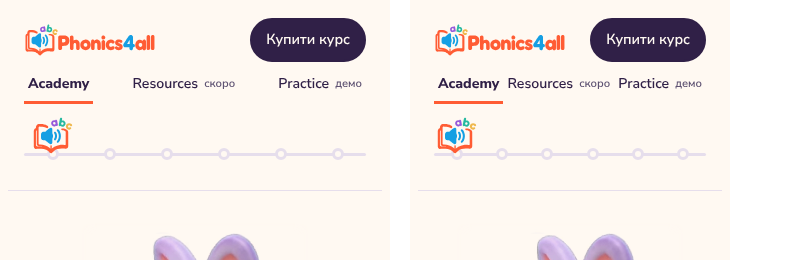
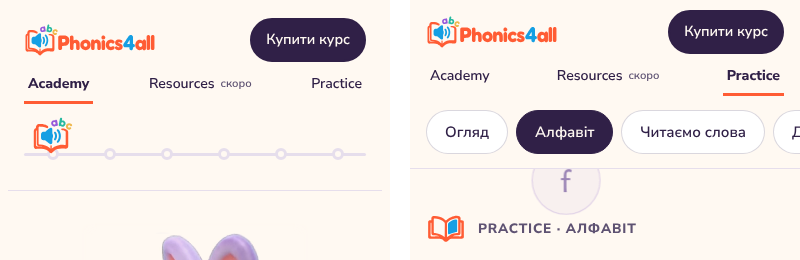
Practice: show header menu on phones too
Same second-row menu as the course landing instead of hiding it
below 1000px. Rebuilt landing/practice.

Claude-Session: https://claude.ai/code/session_016bVaig1H6c4J4XuGwyBkQ1

diff --git a/landing/practice/assets/index-BVn9vgB3.css b/landing/practice/assets/index-BVn9vgB3.css
@@ -1,0 +1,1 @@
+@font-face{font-family:Nunito Sans;src:url(../fonts/NunitoSans-Regular.woff2) format("woff2");font-weight:400;font-display:swap}@font-face{font-family:Nunito Sans;src:url(../fonts/NunitoSans-SemiBold.woff2) format("woff2");font-weight:600;font-display:swap}@font-face{font-family:Nunito Sans;src:url(../fonts/NunitoSans-ExtraBold.woff2) format("woff2");font-weight:800;font-display:swap}@font-face{font-family:Andika;src:url(../fonts/Andika-Regular.woff2) format("woff2");font-weight:400;font-display:swap}@font-face{font-family:Andika;src:url(../fonts/Andika-Bold.woff2) format("woff2");font-weight:700;font-display:swap}:root{--plum: #302047;--plum-hover: #47335f;--plum-soft: #5e5272;--orange: #ff5c34;--blue: #159fe3;--lavender: #b39ad7;--milk: #fff9f2;--ice: #d7efff;--paper: #ffffff;--line: #e6deec;--font-body: "Nunito Sans", "Segoe UI", system-ui, sans-serif;--font-learn: "Andika", "Nunito Sans", system-ui, sans-serif;--step-0: 1rem;--step-1: 1.25rem;--step-2: clamp(1.5rem, 1.2rem + 1.2vw, 2rem);--step-3: clamp(2rem, 1.4rem + 2.6vw, 3.25rem);--gutter: clamp(16px, 4vw, 40px);--radius: 14px;--coral: var(--orange);--coral-light: #ffe6dd;--coral-dark: #c8401d;--sky: var(--blue);--sky-light: var(--ice);--sky-dark: #0b6fa3;--yellow: #efb84d;--yellow-light: #fcefd2;--yellow-dark: #c98e1c;--mint: #27b9a0;--mint-light: #d6f3ed;--mint-dark: #13796a;--lavender-light: #eee6f8;--lavender-dark: #6c4f99;--bg: var(--milk);--bg-color: var(--milk);--surface: var(--paper);--text: var(--plum);--muted: var(--plum-soft);--border: var(--line);--radius-sm: 10px;--radius-md: var(--radius);--radius-lg: var(--radius);--radius-pill: 999px;--shadow-xs: none;--shadow-card: none;--shadow-mint: none;--font: var(--font-body);color-scheme:light}*{box-sizing:border-box}@media(prefers-reduced-motion:reduce){*,*:before,*:after{transition:none!important;animation:none!important}}body{margin:0;background:var(--milk);color:var(--plum);font:400 var(--step-0)/1.6 var(--font-body);-webkit-font-smoothing:antialiased;overflow-x:hidden}#root{min-height:100vh;display:flex;flex-direction:column}h1,h2,h3,h4{font-weight:800;line-height:1.12;text-wrap:balance;margin:0;color:var(--plum)}h1{font-size:var(--step-3);letter-spacing:-.01em}h2{font-size:var(--step-2)}h3{font-size:var(--step-1)}p{margin:0}a{color:inherit}button{font:inherit;color:inherit}:focus-visible{outline:3px solid var(--plum);outline-offset:3px;border-radius:6px}.wrap{width:100%;max-width:1160px;margin-inline:auto;padding-inline:var(--gutter)}.learn{font-family:var(--font-learn)}.muted{color:var(--plum-soft)}.lead{font-size:var(--step-1);max-width:40ch}.stack{display:grid;gap:18px}.split{display:grid;grid-template-columns:minmax(0,1.1fr) minmax(0,.9fr);gap:clamp(28px,5vw,72px);align-items:end}.eyebrow{display:flex;align-items:center;gap:12px;font-size:.85rem;font-weight:800;letter-spacing:.06em;text-transform:uppercase;color:var(--plum-soft);margin-bottom:14px}.eyebrow img{width:40px;height:40px;object-fit:contain}.text-center{text-align:center}.flex{display:flex}.grid{display:grid}.btn{display:inline-flex;align-items:center;justify-content:center;gap:10px;min-height:48px;padding:12px 24px;border-radius:999px;border:2px solid var(--plum);font:600 1rem/1.2 var(--font-body);text-decoration:none;cursor:pointer;background:transparent;color:var(--plum);transition:transform .15s ease,background-color .15s ease}.btn:active{transform:translateY(1px)}.btn-primary{background:var(--plum);color:var(--milk)}.btn-primary:hover{background:var(--plum-hover);border-color:var(--plum-hover)}.btn-ghost,.btn-outline,.btn-secondary{background:transparent;color:var(--plum)}.btn-ghost:hover,.btn-outline:hover,.btn-secondary:hover{background:#3020470f}.btn-round{width:52px;min-height:52px;height:52px;padding:0}.pill{display:inline-flex;align-items:center;gap:8px;white-space:nowrap;min-height:44px;padding:8px 18px;border-radius:999px;border:1.5px solid rgba(48,32,71,.18);background:var(--paper);color:var(--plum);font:600 15px/1.2 var(--font-body);text-decoration:none;cursor:pointer;transition:background-color .2s,color .2s,border-color .2s}.pill:hover{border-color:var(--plum)}.pill.on,.pill[aria-current=page],.pill[aria-pressed=true]{background:var(--plum);color:var(--milk);border-color:var(--plum)}.pill small{font-size:.78rem;font-weight:600;opacity:.75}.top{position:sticky;top:env(safe-area-inset-top,0px);z-index:20;background:var(--milk);border-bottom:1px solid var(--line)}.top-row{display:flex;align-items:center;gap:24px;padding-block:10px}.top-logo img{width:200px;height:auto;display:block}.top-nav{display:flex;gap:4px;margin-left:auto}.top-nav a{text-decoration:none;font-weight:600;padding:8px 12px;border-radius:8px;display:flex;gap:6px;align-items:baseline}.top-nav a:hover{background:var(--paper)}.top-nav a[aria-current]{font-weight:800;box-shadow:inset 0 -3px 0 var(--orange);border-radius:0}.top-nav small{font-size:.7rem;color:var(--plum-soft);font-weight:600}.top .btn{min-height:44px;padding:8px 18px}.subnav{display:flex;gap:8px;padding-block:4px 14px;overflow-x:auto;scrollbar-width:none}.subnav::-webkit-scrollbar{display:none}main.page{position:relative;z-index:1;flex:1;padding-block:clamp(40px,6vw,72px) clamp(56px,8vw,104px)}.section-head{margin-bottom:32px}.panel{background:var(--ice);border-radius:var(--radius);padding:clamp(20px,4vw,44px);display:grid;grid-template-columns:minmax(0,1fr) 200px;gap:clamp(20px,4vw,48px);align-items:center}.panel-lulu{display:grid;justify-items:center;gap:10px;text-align:center;align-self:start;position:sticky;top:140px}.panel-lulu img{width:100%;max-width:190px;height:auto}.bubble{background:var(--milk);border-radius:12px;padding:10px 14px;font-weight:800}.note{margin-top:16px;font-size:.9rem;color:var(--plum-soft)}.card{background:var(--paper);border:1px solid var(--line);border-radius:var(--radius);padding:24px}.cards3{display:grid;grid-template-columns:repeat(3,minmax(0,1fr));gap:16px}.card-link{display:grid;gap:10px;align-content:start;text-decoration:none;transition:border-color .2s}.card-link:hover{border-color:var(--plum)}.card-link img{width:48px;height:48px}.card-link .go{font-weight:800;display:inline-flex;align-items:center;gap:6px;margin-top:4px}.legend{display:flex;flex-wrap:wrap;gap:8px 20px;list-style:none;margin:0 0 20px;padding:0;font-size:.92rem;font-weight:600}.legend li{display:flex;align-items:center;gap:8px}.legend i{width:18px;height:18px;border-radius:4px;background:var(--milk);border:2px solid var(--plum)}.legend .v i{background:var(--paper);border:3px solid var(--orange)}.legend .d i{background:var(--paper);border-color:var(--blue)}.letter-grid{display:grid;grid-template-columns:repeat(auto-fill,minmax(104px,1fr));gap:12px;list-style:none;margin:0;padding:0}.letter-grid.wide{grid-template-columns:repeat(auto-fill,minmax(132px,1fr))}.letter{position:relative;width:100%;aspect-ratio:4 / 5;display:grid;place-items:center;padding:0;overflow:hidden;cursor:pointer;background:var(--milk);border:2px solid var(--plum);border-radius:10px;transition:transform .15s ease,background-color .15s ease}.letter:hover{background:var(--paper);transform:translateY(-2px)}.letter.vowel{background:var(--paper);border:3px solid var(--orange)}.letter.digraph{background:var(--paper);border-color:var(--blue)}.letter .name{position:absolute;top:8px;right:9px;font:600 .66rem/1 var(--font-body);letter-spacing:.03em;color:var(--plum-soft);transition:opacity .2s}.letter .glyph{font:400 clamp(2.4rem,1.8rem + 2vw,3.2rem)/1 var(--font-learn);color:var(--plum);transition:transform .22s ease;-webkit-user-select:none;user-select:none}.letter .glyph span{color:var(--plum-soft)}.letter .sound{position:absolute;left:0;right:0;bottom:0;height:34%;display:grid;place-items:center;background:var(--plum);color:var(--milk);font:400 clamp(1.3rem,1rem + 1vw,1.6rem)/1 var(--font-learn);transform:translateY(101%);transition:transform .22s ease}.letter.vowel .sound{background:var(--orange);color:var(--plum)}.letter.digraph .sound{background:var(--blue);color:var(--plum)}.letter[aria-pressed=true] .name{opacity:0}.letter[aria-pressed=true] .glyph{transform:translateY(-30%)}.letter[aria-pressed=true] .sound{transform:translateY(0)}.digraphs-title{display:flex;align-items:center;gap:12px;margin:36px 0 16px;font-size:.85rem;font-weight:800;letter-spacing:.06em;text-transform:uppercase;color:var(--plum-soft)}.digraphs-title:after{content:"";flex:1;height:1px;background:#30204733}.decks{display:flex;gap:8px;overflow-x:auto;scrollbar-width:none;margin-bottom:20px;padding-bottom:2px}.decks::-webkit-scrollbar{display:none}.word{display:flex;justify-content:center;gap:clamp(6px,1.5vw,12px)}.wtile{display:grid;justify-items:center;gap:8px;padding:0;border:0;background:none;cursor:pointer}.wtile .face{width:clamp(52px,15vw,112px);aspect-ratio:3 / 4;display:grid;place-items:center;background:var(--milk);border:2px solid var(--plum);border-radius:10px;font:400 clamp(2rem,1.2rem + 4vw,4.4rem)/1 var(--font-learn);color:var(--plum);transition:transform .15s ease,background-color .15s ease}.wtile.long .face{width:clamp(42px,12vw,88px);font-size:clamp(1.6rem,1rem + 3vw,3.2rem)}.wtile.vowel .face{background:var(--paper);border:3px solid var(--orange)}.wtile:hover .face{transform:translateY(-2px);background:var(--paper)}.wtile .snd{min-height:1.4em;font:400 clamp(1.2rem,1rem + 1vw,1.8rem)/1.2 var(--font-learn);color:var(--plum);opacity:0;transform:translateY(-6px);transition:opacity .2s,transform .2s}.wtile[aria-pressed=true] .snd{opacity:1;transform:none}.wtile[aria-pressed=true] .face{background:var(--paper)}.word-ctl{display:flex;align-items:center;justify-content:center;gap:12px;margin-top:24px}.word-empty{text-align:center;padding:24px 0;display:grid;gap:8px;justify-items:center}.modal-bg{position:fixed;inset:0;z-index:1000;background:#30204773;display:flex;align-items:center;justify-content:center;padding:20px}.modal{background:var(--milk);border-radius:var(--radius);padding:24px;width:100%;max-width:440px;max-height:70vh;display:flex;flex-direction:column;gap:16px}.modal-head{display:flex;align-items:center;justify-content:space-between;gap:12px}.modal-list{overflow-y:auto;display:flex;flex-wrap:wrap;gap:8px}.modal-list .pill{font-family:var(--font-learn);font-weight:400;font-size:1.1rem}.modal-list .pill small{font-family:var(--font-body)}.icon-btn{background:none;border:0;cursor:pointer;padding:6px;border-radius:8px;color:var(--plum);display:grid;place-items:center}.icon-btn:hover{background:#3020470f}.hero{display:grid;grid-template-columns:minmax(0,1fr) minmax(0,.8fr);gap:24px;align-items:center;margin-bottom:clamp(48px,7vw,88px)}.hero .ctas{display:flex;flex-wrap:wrap;gap:12px;margin-top:8px}.hero-art{display:grid;place-items:center}.hero-art img{width:min(100%,360px);height:auto}footer.site{position:relative;z-index:1;background:var(--plum);color:var(--milk);padding-block:48px 40px}footer.site .wrap{display:grid;grid-template-columns:minmax(0,1.3fr) repeat(3,minmax(0,1fr));gap:28px}footer.site img{width:220px;height:auto}footer.site h4{margin:0 0 8px;font-size:.85rem;letter-spacing:.06em;text-transform:uppercase;color:var(--ice)}footer.site ul{list-style:none;margin:0;padding:0;display:grid;gap:6px}footer.site a{text-decoration:none}footer.site a:hover{text-decoration:underline}footer.site .fine{grid-column:1 / -1;font-size:.85rem;color:#d9cce6;border-top:1px solid #4e3d66;padding-top:18px}@keyframes bubble-rise-y{0%{transform:translateY(0)}to{transform:translateY(-90vh)}}@keyframes bubble-sway-x{0%,to{transform:translate(0)}30%{transform:translate(13px)}65%{transform:translate(-11px)}}@keyframes bubble-appear{0%{opacity:0}6%,to{opacity:.8}}@keyframes bubble-pop{0%{opacity:.8;transform:scale(1)}55%{opacity:.25;transform:scale(2.1)}to{opacity:0;transform:scale(3)}}@keyframes fade-up{0%{opacity:0;transform:translateY(8px)}to{opacity:1;transform:none}}.fade-up{animation:fade-up .4s ease both}@media(max-width:1000px){.top-row{flex-wrap:wrap;row-gap:2px}.top-nav{order:3;width:100%;margin-left:0;justify-content:space-between}.top-nav a{padding:6px 8px;font-size:.95rem;min-height:40px;align-items:center}.top .btn{margin-left:auto}.cards3{grid-template-columns:minmax(0,1fr)}}@media(max-width:760px){.split,.hero{grid-template-columns:minmax(0,1fr)}.hero-art{order:-1}.hero-art img{width:200px}.top-logo img{width:160px}.panel{grid-template-columns:minmax(0,1fr)}.panel-lulu{position:static;order:-1;grid-template-columns:84px 1fr;justify-items:start;text-align:left;align-items:center}.panel-lulu img{max-width:84px}footer.site .wrap{grid-template-columns:minmax(0,1fr) minmax(0,1fr)}footer.site .brand{grid-column:1 / -1}}@media(max-width:480px){.letter-grid{grid-template-columns:repeat(3,minmax(0,1fr));gap:8px}.letter-grid.wide{grid-template-columns:repeat(2,minmax(0,1fr))}.panel{padding:16px 12px}}@media(max-width:420px){.top-nav{gap:0}.top-nav a{padding:6px 4px;font-size:.88rem}.top .btn{padding:8px 14px;font-size:.9rem}.top-logo img{width:132px}}.tip-mark{width:12px;height:12px;flex-shrink:0;background:var(--orange);clip-path:polygon(50% 0,100% 100%,0 100%)}.page .wrap>*{position:relative;z-index:1}

diff --git a/site/src/index.css b/site/src/index.css
@@ -821,8 +821,22 @@ footer.site .fine {
 
 /* Адаптивність, як на сайті курсу */
 @media (max-width: 1000px) {
+  /* на вузькому екрані меню переходить у другий рядок шапки, під логотип */
+  .top-row {
+    flex-wrap: wrap;
+    row-gap: 2px;
+  }
   .top-nav {
-    display: none;
+    order: 3;
+    width: 100%;
+    margin-left: 0;
+    justify-content: space-between;
+  }
+  .top-nav a {
+    padding: 6px 8px;
+    font-size: 0.95rem;
+    min-height: 40px;
+    align-items: center;
   }
   .top .btn {
     margin-left: auto;
@@ -879,6 +893,13 @@ footer.site .fine {
   }
 }
 @media (max-width: 420px) {
+  .top-nav {
+    gap: 0;
+  }
+  .top-nav a {
+    padding: 6px 4px;
+    font-size: 0.88rem;
+  }
   .top .btn {
     padding: 8px 14px;
     font-size: 0.9rem;

diff --git a/landing/practice/index.html b/landing/practice/index.html
@@ -6,8 +6,8 @@
     <meta name="viewport" content="width=device-width, initial-scale=1.0" />
     <title>Practice · Phonics4All</title>
     <meta name="theme-color" content="#FFF9F2" />
-    <script type="module" crossorigin src="./assets/index-CRCP4V85.js"></script>
-    <link rel="stylesheet" crossorigin href="./assets/index-BJSMQuxL.css">
+    <script type="module" crossorigin src="./assets/index-B-6YQg6m.js"></script>
+    <link rel="stylesheet" crossorigin href="./assets/index-BVn9vgB3.css">
   </head>
   <body>
     <div id="root"></div>
